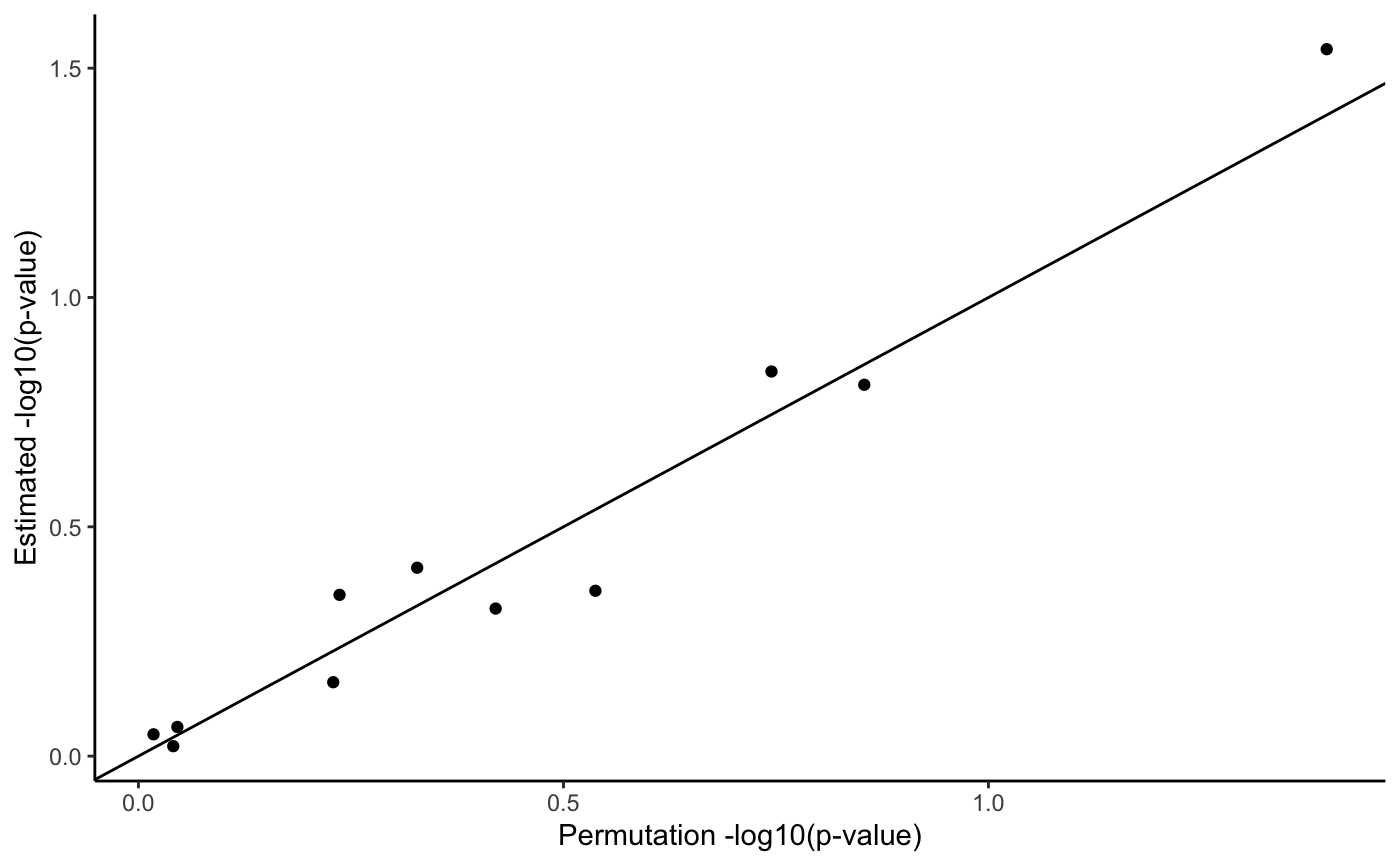
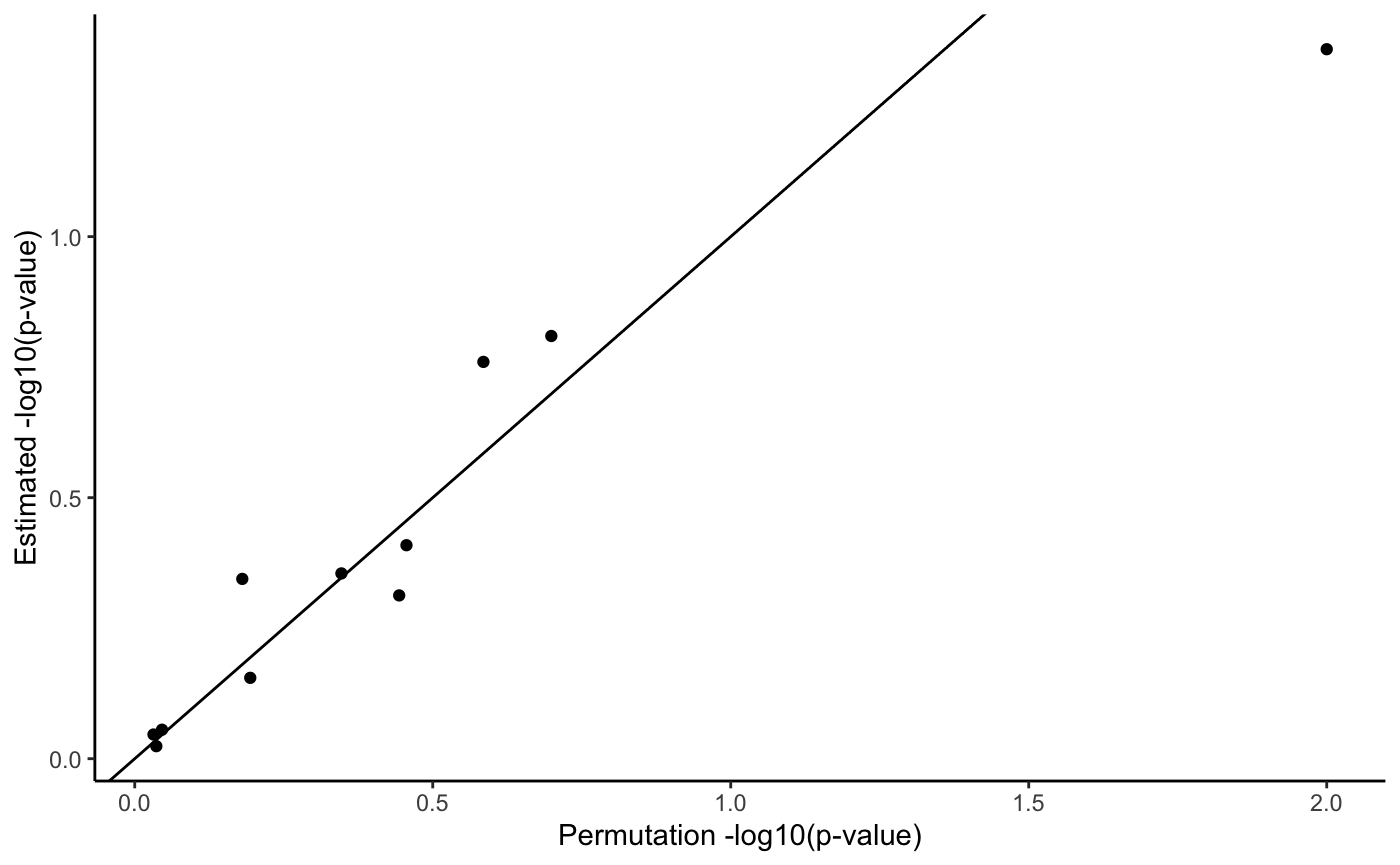
fix estimate pvalue plot functions

diff --git a/docs/articles/scHOT.html b/docs/articles/scHOT.html
@@ -65,7 +65,7 @@
     <div class="page-header toc-ignore">
       <h1>Getting started: scHOT</h1>
             
-            <h4 class="date">2020-03-05</h4>
+            <h4 class="date">2020-03-07</h4>
       
       
       <div class="hidden name"><code>scHOT.Rmd</code></div>
@@ -177,24 +177,24 @@
 <a class="sourceLine" id="cb5-47" data-line-number="47"><span class="co">#&gt; Tacc3      0.9305978594095</span></a>
 <a class="sourceLine" id="cb5-48" data-line-number="48"><span class="co">#&gt;                                                      permutations</span></a>
 <a class="sourceLine" id="cb5-49" data-line-number="49"><span class="co">#&gt;                                                     &lt;NumericList&gt;</span></a>
-<a class="sourceLine" id="cb5-50" data-line-number="50"><span class="co">#&gt; Birc5   0.580178954609393,0.637034836406202,0.496608600783187,...</span></a>
-<a class="sourceLine" id="cb5-51" data-line-number="51"><span class="co">#&gt; H2afz 0.0640423780706457,0.101438086186295,0.0548196894836163,...</span></a>
-<a class="sourceLine" id="cb5-52" data-line-number="52"><span class="co">#&gt; Tacc3    0.349331179758634,0.41079068193974,0.711636267042789,...</span></a>
+<a class="sourceLine" id="cb5-50" data-line-number="50"><span class="co">#&gt; Birc5   0.348544299199332,0.542450285589528,0.179141278219702,...</span></a>
+<a class="sourceLine" id="cb5-51" data-line-number="51"><span class="co">#&gt; H2afz 0.0524439308052498,0.064648581600795,0.0715850699920272,...</span></a>
+<a class="sourceLine" id="cb5-52" data-line-number="52"><span class="co">#&gt; Tacc3    0.528115026609221,0.153904469415437,0.43599292865703,...</span></a>
 <a class="sourceLine" id="cb5-53" data-line-number="53"><span class="co">#&gt;         pvalPermutations    FDRPermutations numberPermutationsEstimated</span></a>
 <a class="sourceLine" id="cb5-54" data-line-number="54"><span class="co">#&gt;                &lt;numeric&gt;          &lt;numeric&gt;                   &lt;integer&gt;</span></a>
-<a class="sourceLine" id="cb5-55" data-line-number="55"><span class="co">#&gt; Birc5 0.0099009900990099 0.0148514851485149                         100</span></a>
-<a class="sourceLine" id="cb5-56" data-line-number="56"><span class="co">#&gt; H2afz 0.0099009900990099 0.0148514851485149                         100</span></a>
-<a class="sourceLine" id="cb5-57" data-line-number="57"><span class="co">#&gt; Tacc3               0.02               0.02                         100</span></a>
+<a class="sourceLine" id="cb5-55" data-line-number="55"><span class="co">#&gt; Birc5 0.0099009900990099 0.0099009900990099                         100</span></a>
+<a class="sourceLine" id="cb5-56" data-line-number="56"><span class="co">#&gt; H2afz 0.0099009900990099 0.0099009900990099                         100</span></a>
+<a class="sourceLine" id="cb5-57" data-line-number="57"><span class="co">#&gt; Tacc3 0.0099009900990099 0.0099009900990099                         100</span></a>
 <a class="sourceLine" id="cb5-58" data-line-number="58"><span class="co">#&gt;       globalLowerRangeEstimated globalUpperRangeEstimated      pvalEstimated</span></a>
 <a class="sourceLine" id="cb5-59" data-line-number="59"><span class="co">#&gt;                       &lt;numeric&gt;                 &lt;numeric&gt;          &lt;numeric&gt;</span></a>
 <a class="sourceLine" id="cb5-60" data-line-number="60"><span class="co">#&gt; Birc5           1.9916742413209           1.9916742413209 0.0099009900990099</span></a>
 <a class="sourceLine" id="cb5-61" data-line-number="61"><span class="co">#&gt; H2afz         0.238446227321547         0.238446227321547 0.0099009900990099</span></a>
-<a class="sourceLine" id="cb5-62" data-line-number="62"><span class="co">#&gt; Tacc3          2.34659756452498          2.34659756452498               0.02</span></a>
+<a class="sourceLine" id="cb5-62" data-line-number="62"><span class="co">#&gt; Tacc3          2.34659756452498          2.34659756452498 0.0099009900990099</span></a>
 <a class="sourceLine" id="cb5-63" data-line-number="63"><span class="co">#&gt;             FDREstimated</span></a>
 <a class="sourceLine" id="cb5-64" data-line-number="64"><span class="co">#&gt;                &lt;numeric&gt;</span></a>
-<a class="sourceLine" id="cb5-65" data-line-number="65"><span class="co">#&gt; Birc5 0.0148514851485149</span></a>
-<a class="sourceLine" id="cb5-66" data-line-number="66"><span class="co">#&gt; H2afz 0.0148514851485149</span></a>
-<a class="sourceLine" id="cb5-67" data-line-number="67"><span class="co">#&gt; Tacc3               0.02</span></a>
+<a class="sourceLine" id="cb5-65" data-line-number="65"><span class="co">#&gt; Birc5 0.0099009900990099</span></a>
+<a class="sourceLine" id="cb5-66" data-line-number="66"><span class="co">#&gt; H2afz 0.0099009900990099</span></a>
+<a class="sourceLine" id="cb5-67" data-line-number="67"><span class="co">#&gt; Tacc3 0.0099009900990099</span></a>
 <a class="sourceLine" id="cb5-68" data-line-number="68"></a>
 <a class="sourceLine" id="cb5-69" data-line-number="69"><span class="kw">slot</span>(scHOT_traj_wrap, <span class="st">"scHOT_output"</span>)<span class="op">$</span>higherOrderSequence</a>
 <a class="sourceLine" id="cb5-70" data-line-number="70"><span class="co">#&gt; NumericList of length 3</span></a>
@@ -271,7 +271,7 @@
 <a class="sourceLine" id="cb6-64" data-line-number="64"><span class="co">#&gt; Permutation testing combination 2 of 3...</span></a>
 <a class="sourceLine" id="cb6-65" data-line-number="65"><span class="co">#&gt; Permutation testing combination 3 of 3...</span></a>
 <a class="sourceLine" id="cb6-66" data-line-number="66"><span class="co">#&gt;    user  system elapsed </span></a>
-<a class="sourceLine" id="cb6-67" data-line-number="67"><span class="co">#&gt;   0.147   0.116  13.515</span></a>
+<a class="sourceLine" id="cb6-67" data-line-number="67"><span class="co">#&gt;   0.159   0.163  14.611</span></a>
 <a class="sourceLine" id="cb6-68" data-line-number="68"></a>
 <a class="sourceLine" id="cb6-69" data-line-number="69"></a>
 <a class="sourceLine" id="cb6-70" data-line-number="70">scHOT_traj &lt;-<span class="st"> </span><span class="kw"><a href="../reference/scHOT_estimatePvalues.html">scHOT_estimatePvalues</a></span>(scHOT_traj)</a>
@@ -292,26 +292,26 @@
 <a class="sourceLine" id="cb6-85" data-line-number="85"><span class="co">#&gt; 1      1.6348540306463</span></a>
 <a class="sourceLine" id="cb6-86" data-line-number="86"><span class="co">#&gt; 2    0.216770984534113</span></a>
 <a class="sourceLine" id="cb6-87" data-line-number="87"><span class="co">#&gt; 3      0.9305978594095</span></a>
-<a class="sourceLine" id="cb6-88" data-line-number="88"><span class="co">#&gt;                                                   permutations</span></a>
-<a class="sourceLine" id="cb6-89" data-line-number="89"><span class="co">#&gt;                                                  &lt;NumericList&gt;</span></a>
-<a class="sourceLine" id="cb6-90" data-line-number="90"><span class="co">#&gt; 1    0.270497052202105,0.287427604952854,0.307092444806665,...</span></a>
-<a class="sourceLine" id="cb6-91" data-line-number="91"><span class="co">#&gt; 2 0.0579936097007446,0.0448178996915663,0.0556276843151251,...</span></a>
-<a class="sourceLine" id="cb6-92" data-line-number="92"><span class="co">#&gt; 3    0.403651477683464,0.273170999764188,0.205386551187109,...</span></a>
+<a class="sourceLine" id="cb6-88" data-line-number="88"><span class="co">#&gt;                                                  permutations</span></a>
+<a class="sourceLine" id="cb6-89" data-line-number="89"><span class="co">#&gt;                                                 &lt;NumericList&gt;</span></a>
+<a class="sourceLine" id="cb6-90" data-line-number="90"><span class="co">#&gt; 1   0.343697552370972,0.392619618322594,0.876651478921939,...</span></a>
+<a class="sourceLine" id="cb6-91" data-line-number="91"><span class="co">#&gt; 2 0.0661601835854264,0.031404729555457,0.0261188329409862,...</span></a>
+<a class="sourceLine" id="cb6-92" data-line-number="92"><span class="co">#&gt; 3   0.687675721354538,0.692935330213712,0.426841975478014,...</span></a>
 <a class="sourceLine" id="cb6-93" data-line-number="93"><span class="co">#&gt;     pvalPermutations    FDRPermutations numberPermutationsEstimated</span></a>
 <a class="sourceLine" id="cb6-94" data-line-number="94"><span class="co">#&gt;            &lt;numeric&gt;          &lt;numeric&gt;                   &lt;integer&gt;</span></a>
-<a class="sourceLine" id="cb6-95" data-line-number="95"><span class="co">#&gt; 1 0.0099009900990099 0.0099009900990099                         100</span></a>
-<a class="sourceLine" id="cb6-96" data-line-number="96"><span class="co">#&gt; 2 0.0099009900990099 0.0099009900990099                         100</span></a>
-<a class="sourceLine" id="cb6-97" data-line-number="97"><span class="co">#&gt; 3 0.0099009900990099 0.0099009900990099                         100</span></a>
+<a class="sourceLine" id="cb6-95" data-line-number="95"><span class="co">#&gt; 1 0.0099009900990099 0.0148514851485149                         100</span></a>
+<a class="sourceLine" id="cb6-96" data-line-number="96"><span class="co">#&gt; 2 0.0099009900990099 0.0148514851485149                         100</span></a>
+<a class="sourceLine" id="cb6-97" data-line-number="97"><span class="co">#&gt; 3               0.02               0.02                         100</span></a>
 <a class="sourceLine" id="cb6-98" data-line-number="98"><span class="co">#&gt;   globalLowerRangeEstimated globalUpperRangeEstimated      pvalEstimated</span></a>
 <a class="sourceLine" id="cb6-99" data-line-number="99"><span class="co">#&gt;                   &lt;numeric&gt;                 &lt;numeric&gt;          &lt;numeric&gt;</span></a>
 <a class="sourceLine" id="cb6-100" data-line-number="100"><span class="co">#&gt; 1           1.9916742413209           1.9916742413209 0.0099009900990099</span></a>
 <a class="sourceLine" id="cb6-101" data-line-number="101"><span class="co">#&gt; 2         0.238446227321547         0.238446227321547 0.0099009900990099</span></a>
-<a class="sourceLine" id="cb6-102" data-line-number="102"><span class="co">#&gt; 3          2.34659756452498          2.34659756452498 0.0099009900990099</span></a>
+<a class="sourceLine" id="cb6-102" data-line-number="102"><span class="co">#&gt; 3          2.34659756452498          2.34659756452498               0.02</span></a>
 <a class="sourceLine" id="cb6-103" data-line-number="103"><span class="co">#&gt;         FDREstimated</span></a>
 <a class="sourceLine" id="cb6-104" data-line-number="104"><span class="co">#&gt;            &lt;numeric&gt;</span></a>
-<a class="sourceLine" id="cb6-105" data-line-number="105"><span class="co">#&gt; 1 0.0099009900990099</span></a>
-<a class="sourceLine" id="cb6-106" data-line-number="106"><span class="co">#&gt; 2 0.0099009900990099</span></a>
-<a class="sourceLine" id="cb6-107" data-line-number="107"><span class="co">#&gt; 3 0.0099009900990099</span></a>
+<a class="sourceLine" id="cb6-105" data-line-number="105"><span class="co">#&gt; 1 0.0148514851485149</span></a>
+<a class="sourceLine" id="cb6-106" data-line-number="106"><span class="co">#&gt; 2 0.0148514851485149</span></a>
+<a class="sourceLine" id="cb6-107" data-line-number="107"><span class="co">#&gt; 3               0.02</span></a>
 <a class="sourceLine" id="cb6-108" data-line-number="108"></a>
 <a class="sourceLine" id="cb6-109" data-line-number="109"><span class="kw">slot</span>(scHOT_traj, <span class="st">"scHOT_output"</span>)<span class="op">$</span>higherOrderSequence</a>
 <a class="sourceLine" id="cb6-110" data-line-number="110"><span class="co">#&gt; NumericList of length 3</span></a>
@@ -524,7 +524,7 @@
 <a class="sourceLine" id="cb8-162" data-line-number="162"><span class="co">#&gt; Permutation testing combination 10 of 11...</span></a>
 <a class="sourceLine" id="cb8-163" data-line-number="163"><span class="co">#&gt; Permutation testing combination 11 of 11...</span></a>
 <a class="sourceLine" id="cb8-164" data-line-number="164"><span class="co">#&gt;    user  system elapsed </span></a>
-<a class="sourceLine" id="cb8-165" data-line-number="165"><span class="co">#&gt;   0.622   0.781 103.301</span></a>
+<a class="sourceLine" id="cb8-165" data-line-number="165"><span class="co">#&gt;   0.726   0.954 128.761</span></a>
 <a class="sourceLine" id="cb8-166" data-line-number="166"></a>
 <a class="sourceLine" id="cb8-167" data-line-number="167"></a>
 <a class="sourceLine" id="cb8-168" data-line-number="168">scHOT_spatial &lt;-<span class="st"> </span><span class="kw"><a href="../reference/scHOT_estimatePvalues.html">scHOT_estimatePvalues</a></span>(scHOT_spatial)</a>
@@ -584,30 +584,30 @@
 <a class="sourceLine" id="cb8-222" data-line-number="222"><span class="co">#&gt; Arrb1_Mtor       0.323072078286733</span></a>
 <a class="sourceLine" id="cb8-223" data-line-number="223"><span class="co">#&gt;                                                            permutations</span></a>
 <a class="sourceLine" id="cb8-224" data-line-number="224"><span class="co">#&gt;                                                           &lt;NumericList&gt;</span></a>
-<a class="sourceLine" id="cb8-225" data-line-number="225"><span class="co">#&gt; Dnm1l_Gucy1b3 0.271771624619152,0.284538455655978,0.334101033023923,...</span></a>
-<a class="sourceLine" id="cb8-226" data-line-number="226"><span class="co">#&gt; Bai1_Vdac3    0.330718109648594,0.288620453721182,0.291908042149754,...</span></a>
-<a class="sourceLine" id="cb8-227" data-line-number="227"><span class="co">#&gt; Igf2_Tuba1a     0.27781733827489,0.338430029963111,0.34855107463088,...</span></a>
-<a class="sourceLine" id="cb8-228" data-line-number="228"><span class="co">#&gt; Gm15421_Myo10  0.32245610644992,0.344830702796697,0.325705003490554,...</span></a>
-<a class="sourceLine" id="cb8-229" data-line-number="229"><span class="co">#&gt; Mtor_Tuba1a    0.29031961628556,0.309973501738734,0.292553748851042,...</span></a>
-<a class="sourceLine" id="cb8-230" data-line-number="230"><span class="co">#&gt; Cldn11_Luzp2  0.292505579032475,0.296568106182193,0.315204241910937,...</span></a>
-<a class="sourceLine" id="cb8-231" data-line-number="231"><span class="co">#&gt; Calm1_Wdfy3    0.314728474497004,0.314007173875438,0.32174098746332,...</span></a>
-<a class="sourceLine" id="cb8-232" data-line-number="232"><span class="co">#&gt; Atrnl1_Calm1  0.308855927960195,0.345302545626893,0.296559072263856,...</span></a>
-<a class="sourceLine" id="cb8-233" data-line-number="233"><span class="co">#&gt; Atrnl1_Dnm3   0.327557104305264,0.290291156944053,0.325224841816364,...</span></a>
-<a class="sourceLine" id="cb8-234" data-line-number="234"><span class="co">#&gt; Mlc1_Uchl1    0.318518890479952,0.295207315752893,0.287808511665742,...</span></a>
-<a class="sourceLine" id="cb8-235" data-line-number="235"><span class="co">#&gt; Arrb1_Mtor     0.344975349901948,0.311832238358347,0.32393853293379,...</span></a>
+<a class="sourceLine" id="cb8-225" data-line-number="225"><span class="co">#&gt; Dnm1l_Gucy1b3 0.324265324410343,0.290837847605136,0.376041427924762,...</span></a>
+<a class="sourceLine" id="cb8-226" data-line-number="226"><span class="co">#&gt; Bai1_Vdac3    0.263718237077515,0.312486982454657,0.324662771310652,...</span></a>
+<a class="sourceLine" id="cb8-227" data-line-number="227"><span class="co">#&gt; Igf2_Tuba1a    0.315750263743469,0.278479639238365,0.31238797968954,...</span></a>
+<a class="sourceLine" id="cb8-228" data-line-number="228"><span class="co">#&gt; Gm15421_Myo10  0.312659634084877,0.299678821075891,0.30954269969171,...</span></a>
+<a class="sourceLine" id="cb8-229" data-line-number="229"><span class="co">#&gt; Mtor_Tuba1a   0.284811763504127,0.330134848181149,0.302676918403911,...</span></a>
+<a class="sourceLine" id="cb8-230" data-line-number="230"><span class="co">#&gt; Cldn11_Luzp2  0.287055869620163,0.379879115694542,0.301062652753303,...</span></a>
+<a class="sourceLine" id="cb8-231" data-line-number="231"><span class="co">#&gt; Calm1_Wdfy3   0.268824488489448,0.302918007733601,0.280443015170628,...</span></a>
+<a class="sourceLine" id="cb8-232" data-line-number="232"><span class="co">#&gt; Atrnl1_Calm1  0.310640986241986,0.303781607234001,0.298139076501966,...</span></a>
+<a class="sourceLine" id="cb8-233" data-line-number="233"><span class="co">#&gt; Atrnl1_Dnm3     0.313728204861707,0.28551146657168,0.34699025071239,...</span></a>
+<a class="sourceLine" id="cb8-234" data-line-number="234"><span class="co">#&gt; Mlc1_Uchl1    0.307521432453503,0.294533126230709,0.328989488114207,...</span></a>
+<a class="sourceLine" id="cb8-235" data-line-number="235"><span class="co">#&gt; Arrb1_Mtor      0.32781583366819,0.31773090324303,0.321603140744708,...</span></a>
 <a class="sourceLine" id="cb8-236" data-line-number="236"><span class="co">#&gt;               pvalPermutations FDRPermutations numberPermutationsEstimated</span></a>
 <a class="sourceLine" id="cb8-237" data-line-number="237"><span class="co">#&gt;                      &lt;numeric&gt;       &lt;numeric&gt;                   &lt;integer&gt;</span></a>
-<a class="sourceLine" id="cb8-238" data-line-number="238"><span class="co">#&gt; Dnm1l_Gucy1b3             0.91            0.96                         800</span></a>
-<a class="sourceLine" id="cb8-239" data-line-number="239"><span class="co">#&gt; Bai1_Vdac3                0.04            0.44                         800</span></a>
-<a class="sourceLine" id="cb8-240" data-line-number="240"><span class="co">#&gt; Igf2_Tuba1a               0.38         0.81125                         300</span></a>
-<a class="sourceLine" id="cb8-241" data-line-number="241"><span class="co">#&gt; Gm15421_Myo10             0.96            0.96                         800</span></a>
-<a class="sourceLine" id="cb8-242" data-line-number="242"><span class="co">#&gt; Mtor_Tuba1a               0.14            0.66                         800</span></a>
-<a class="sourceLine" id="cb8-243" data-line-number="243"><span class="co">#&gt; Cldn11_Luzp2              0.18            0.66                         200</span></a>
-<a class="sourceLine" id="cb8-244" data-line-number="244"><span class="co">#&gt; Calm1_Wdfy3                0.9            0.96                         800</span></a>
-<a class="sourceLine" id="cb8-245" data-line-number="245"><span class="co">#&gt; Atrnl1_Calm1              0.29          0.7975                         500</span></a>
-<a class="sourceLine" id="cb8-246" data-line-number="246"><span class="co">#&gt; Atrnl1_Dnm3               0.47         0.81125                         600</span></a>
-<a class="sourceLine" id="cb8-247" data-line-number="247"><span class="co">#&gt; Mlc1_Uchl1                0.59         0.81125                         900</span></a>
-<a class="sourceLine" id="cb8-248" data-line-number="248"><span class="co">#&gt; Arrb1_Mtor                0.58         0.81125                         800</span></a>
+<a class="sourceLine" id="cb8-238" data-line-number="238"><span class="co">#&gt; Dnm1l_Gucy1b3             0.92            0.93                         800</span></a>
+<a class="sourceLine" id="cb8-239" data-line-number="239"><span class="co">#&gt; Bai1_Vdac3                0.01            0.11                         800</span></a>
+<a class="sourceLine" id="cb8-240" data-line-number="240"><span class="co">#&gt; Igf2_Tuba1a               0.36           0.792                         300</span></a>
+<a class="sourceLine" id="cb8-241" data-line-number="241"><span class="co">#&gt; Gm15421_Myo10             0.93            0.93                         800</span></a>
+<a class="sourceLine" id="cb8-242" data-line-number="242"><span class="co">#&gt; Mtor_Tuba1a               0.26           0.792                         800</span></a>
+<a class="sourceLine" id="cb8-243" data-line-number="243"><span class="co">#&gt; Cldn11_Luzp2               0.2           0.792                         200</span></a>
+<a class="sourceLine" id="cb8-244" data-line-number="244"><span class="co">#&gt; Calm1_Wdfy3                0.9            0.93                         800</span></a>
+<a class="sourceLine" id="cb8-245" data-line-number="245"><span class="co">#&gt; Atrnl1_Calm1              0.35           0.792                         500</span></a>
+<a class="sourceLine" id="cb8-246" data-line-number="246"><span class="co">#&gt; Atrnl1_Dnm3               0.45           0.825                         600</span></a>
+<a class="sourceLine" id="cb8-247" data-line-number="247"><span class="co">#&gt; Mlc1_Uchl1                0.64          0.9075                         900</span></a>
+<a class="sourceLine" id="cb8-248" data-line-number="248"><span class="co">#&gt; Arrb1_Mtor                0.66          0.9075                         800</span></a>
 <a class="sourceLine" id="cb8-249" data-line-number="249"><span class="co">#&gt;               globalLowerRangeEstimated globalUpperRangeEstimated</span></a>
 <a class="sourceLine" id="cb8-250" data-line-number="250"><span class="co">#&gt;                               &lt;numeric&gt;                 &lt;numeric&gt;</span></a>
 <a class="sourceLine" id="cb8-251" data-line-number="251"><span class="co">#&gt; Dnm1l_Gucy1b3        0.0348910517728306         0.147862715396389</span></a>
@@ -623,17 +623,17 @@
 <a class="sourceLine" id="cb8-261" data-line-number="261"><span class="co">#&gt; Arrb1_Mtor           0.0348910517728306         0.147862715396389</span></a>
 <a class="sourceLine" id="cb8-262" data-line-number="262"><span class="co">#&gt;                   pvalEstimated      FDREstimated</span></a>
 <a class="sourceLine" id="cb8-263" data-line-number="263"><span class="co">#&gt;                       &lt;numeric&gt;         &lt;numeric&gt;</span></a>
-<a class="sourceLine" id="cb8-264" data-line-number="264"><span class="co">#&gt; Dnm1l_Gucy1b3           0.95125           0.95125</span></a>
-<a class="sourceLine" id="cb8-265" data-line-number="265"><span class="co">#&gt; Bai1_Vdac3              0.02875           0.31625</span></a>
-<a class="sourceLine" id="cb8-266" data-line-number="266"><span class="co">#&gt; Igf2_Tuba1a   0.476666666666667 0.749047619047619</span></a>
-<a class="sourceLine" id="cb8-267" data-line-number="267"><span class="co">#&gt; Gm15421_Myo10           0.89625           0.95125</span></a>
-<a class="sourceLine" id="cb8-268" data-line-number="268"><span class="co">#&gt; Mtor_Tuba1a               0.155 0.568333333333333</span></a>
-<a class="sourceLine" id="cb8-269" data-line-number="269"><span class="co">#&gt; Cldn11_Luzp2              0.145 0.568333333333333</span></a>
-<a class="sourceLine" id="cb8-270" data-line-number="270"><span class="co">#&gt; Calm1_Wdfy3             0.86375           0.95125</span></a>
-<a class="sourceLine" id="cb8-271" data-line-number="271"><span class="co">#&gt; Atrnl1_Calm1              0.436 0.749047619047619</span></a>
-<a class="sourceLine" id="cb8-272" data-line-number="272"><span class="co">#&gt; Atrnl1_Dnm3   0.388333333333333 0.749047619047619</span></a>
-<a class="sourceLine" id="cb8-273" data-line-number="273"><span class="co">#&gt; Mlc1_Uchl1                 0.69           0.94875</span></a>
-<a class="sourceLine" id="cb8-274" data-line-number="274"><span class="co">#&gt; Arrb1_Mtor                0.445 0.749047619047619</span></a>
+<a class="sourceLine" id="cb8-264" data-line-number="264"><span class="co">#&gt; Dnm1l_Gucy1b3           0.94625           0.94625</span></a>
+<a class="sourceLine" id="cb8-265" data-line-number="265"><span class="co">#&gt; Bai1_Vdac3              0.04375           0.48125</span></a>
+<a class="sourceLine" id="cb8-266" data-line-number="266"><span class="co">#&gt; Igf2_Tuba1a   0.486666666666667 0.764761904761905</span></a>
+<a class="sourceLine" id="cb8-267" data-line-number="267"><span class="co">#&gt; Gm15421_Myo10           0.89875           0.94625</span></a>
+<a class="sourceLine" id="cb8-268" data-line-number="268"><span class="co">#&gt; Mtor_Tuba1a             0.17375 0.637083333333333</span></a>
+<a class="sourceLine" id="cb8-269" data-line-number="269"><span class="co">#&gt; Cldn11_Luzp2              0.155 0.637083333333333</span></a>
+<a class="sourceLine" id="cb8-270" data-line-number="270"><span class="co">#&gt; Calm1_Wdfy3                0.88           0.94625</span></a>
+<a class="sourceLine" id="cb8-271" data-line-number="271"><span class="co">#&gt; Atrnl1_Calm1               0.39 0.764761904761905</span></a>
+<a class="sourceLine" id="cb8-272" data-line-number="272"><span class="co">#&gt; Atrnl1_Dnm3   0.441666666666667 0.764761904761905</span></a>
+<a class="sourceLine" id="cb8-273" data-line-number="273"><span class="co">#&gt; Mlc1_Uchl1                  0.7           0.94625</span></a>
+<a class="sourceLine" id="cb8-274" data-line-number="274"><span class="co">#&gt; Arrb1_Mtor               0.4525 0.764761904761905</span></a>
 <a class="sourceLine" id="cb8-275" data-line-number="275"></a>
 <a class="sourceLine" id="cb8-276" data-line-number="276"><span class="kw"><a href="https://ggplot2.tidyverse.org/reference/ggplot.html">ggplot</a></span>(<span class="kw"><a href="https://rdrr.io/r/base/as.data.frame.html">as.data.frame</a></span>(<span class="kw">slot</span>(scHOT_spatial, <span class="st">"scHOT_output"</span>)),</a>
 <a class="sourceLine" id="cb8-277" data-line-number="277">       <span class="kw"><a href="https://ggplot2.tidyverse.org/reference/aes.html">aes</a></span>(<span class="dt">x =</span> <span class="op">-</span><span class="kw"><a href="https://rdrr.io/r/base/Log.html">log10</a></span>(pvalPermutations), <span class="dt">y =</span> <span class="op">-</span><span class="kw"><a href="https://rdrr.io/r/base/Log.html">log10</a></span>(pvalEstimated))) <span class="op">+</span><span class="st"> </span></a>
@@ -780,30 +780,30 @@
 <a class="sourceLine" id="cb12-96" data-line-number="96"><span class="co">#&gt; Arrb1_Mtor       0.323072078286733</span></a>
 <a class="sourceLine" id="cb12-97" data-line-number="97"><span class="co">#&gt;                                                            permutations</span></a>
 <a class="sourceLine" id="cb12-98" data-line-number="98"><span class="co">#&gt;                                                           &lt;NumericList&gt;</span></a>
-<a class="sourceLine" id="cb12-99" data-line-number="99"><span class="co">#&gt; Dnm1l_Gucy1b3 0.335172405559732,0.313352190771686,0.297935513676411,...</span></a>
-<a class="sourceLine" id="cb12-100" data-line-number="100"><span class="co">#&gt; Bai1_Vdac3     0.30317327596639,0.362746487380235,0.322742419124655,...</span></a>
-<a class="sourceLine" id="cb12-101" data-line-number="101"><span class="co">#&gt; Igf2_Tuba1a   0.339001669010977,0.271077485433086,0.302661483719123,...</span></a>
-<a class="sourceLine" id="cb12-102" data-line-number="102"><span class="co">#&gt; Gm15421_Myo10 0.344821077270025,0.331119386209038,0.349530764311098,...</span></a>
-<a class="sourceLine" id="cb12-103" data-line-number="103"><span class="co">#&gt; Mtor_Tuba1a   0.363840311274538,0.277690491678801,0.316199296375477,...</span></a>
-<a class="sourceLine" id="cb12-104" data-line-number="104"><span class="co">#&gt; Cldn11_Luzp2  0.336611557883175,0.338698227172049,0.322440108936185,...</span></a>
-<a class="sourceLine" id="cb12-105" data-line-number="105"><span class="co">#&gt; Calm1_Wdfy3    0.348915746044035,0.344033609301269,0.34879470657377,...</span></a>
-<a class="sourceLine" id="cb12-106" data-line-number="106"><span class="co">#&gt; Atrnl1_Calm1  0.393483948478277,0.324482920967924,0.337070691651256,...</span></a>
-<a class="sourceLine" id="cb12-107" data-line-number="107"><span class="co">#&gt; Atrnl1_Dnm3    0.290919049508433,0.306798214854318,0.31058095235514,...</span></a>
-<a class="sourceLine" id="cb12-108" data-line-number="108"><span class="co">#&gt; Mlc1_Uchl1    0.335887367101587,0.306183758117452,0.324786450328411,...</span></a>
-<a class="sourceLine" id="cb12-109" data-line-number="109"><span class="co">#&gt; Arrb1_Mtor    0.305865942578259,0.294269920803235,0.347458733309852,...</span></a>
-<a class="sourceLine" id="cb12-110" data-line-number="110"><span class="co">#&gt;               pvalPermutations FDRPermutations numberPermutationsEstimated</span></a>
-<a class="sourceLine" id="cb12-111" data-line-number="111"><span class="co">#&gt;                      &lt;numeric&gt;       &lt;numeric&gt;                   &lt;integer&gt;</span></a>
-<a class="sourceLine" id="cb12-112" data-line-number="112"><span class="co">#&gt; Dnm1l_Gucy1b3             0.93            0.94                         800</span></a>
-<a class="sourceLine" id="cb12-113" data-line-number="113"><span class="co">#&gt; Bai1_Vdac3                0.03            0.33                         800</span></a>
-<a class="sourceLine" id="cb12-114" data-line-number="114"><span class="co">#&gt; Igf2_Tuba1a               0.44            0.77                         300</span></a>
-<a class="sourceLine" id="cb12-115" data-line-number="115"><span class="co">#&gt; Gm15421_Myo10             0.91            0.94                         800</span></a>
-<a class="sourceLine" id="cb12-116" data-line-number="116"><span class="co">#&gt; Mtor_Tuba1a               0.18            0.77                         800</span></a>
-<a class="sourceLine" id="cb12-117" data-line-number="117"><span class="co">#&gt; Cldn11_Luzp2               0.3            0.77                         200</span></a>
-<a class="sourceLine" id="cb12-118" data-line-number="118"><span class="co">#&gt; Calm1_Wdfy3               0.94            0.94                         800</span></a>
-<a class="sourceLine" id="cb12-119" data-line-number="119"><span class="co">#&gt; Atrnl1_Calm1              0.44            0.77                         500</span></a>
-<a class="sourceLine" id="cb12-120" data-line-number="120"><span class="co">#&gt; Atrnl1_Dnm3               0.34            0.77                         600</span></a>
-<a class="sourceLine" id="cb12-121" data-line-number="121"><span class="co">#&gt; Mlc1_Uchl1                0.71            0.94                         900</span></a>
-<a class="sourceLine" id="cb12-122" data-line-number="122"><span class="co">#&gt; Arrb1_Mtor                0.49            0.77                         800</span></a>
+<a class="sourceLine" id="cb12-99" data-line-number="99"><span class="co">#&gt; Dnm1l_Gucy1b3 0.319035382923548,0.359879167945165,0.329194918148808,...</span></a>
+<a class="sourceLine" id="cb12-100" data-line-number="100"><span class="co">#&gt; Bai1_Vdac3    0.263664120555617,0.325363004199709,0.317661220043807,...</span></a>
+<a class="sourceLine" id="cb12-101" data-line-number="101"><span class="co">#&gt; Igf2_Tuba1a   0.303815849558339,0.270869348758155,0.242023646272572,...</span></a>
+<a class="sourceLine" id="cb12-102" data-line-number="102"><span class="co">#&gt; Gm15421_Myo10 0.322413305669061,0.306637571545124,0.302905124713141,...</span></a>
+<a class="sourceLine" id="cb12-103" data-line-number="103"><span class="co">#&gt; Mtor_Tuba1a     0.322656998475013,0.319335502918545,0.3273748390953,...</span></a>
+<a class="sourceLine" id="cb12-104" data-line-number="104"><span class="co">#&gt; Cldn11_Luzp2  0.330437156253523,0.341138912447068,0.343354507054171,...</span></a>
+<a class="sourceLine" id="cb12-105" data-line-number="105"><span class="co">#&gt; Calm1_Wdfy3   0.345039306759751,0.355526758395443,0.320168374389558,...</span></a>
+<a class="sourceLine" id="cb12-106" data-line-number="106"><span class="co">#&gt; Atrnl1_Calm1  0.321800816760544,0.325709285741779,0.288697424611993,...</span></a>
+<a class="sourceLine" id="cb12-107" data-line-number="107"><span class="co">#&gt; Atrnl1_Dnm3   0.336545838828978,0.287820671242388,0.284514261175985,...</span></a>
+<a class="sourceLine" id="cb12-108" data-line-number="108"><span class="co">#&gt; Mlc1_Uchl1     0.31521881948469,0.282250592785881,0.369956855960027,...</span></a>
+<a class="sourceLine" id="cb12-109" data-line-number="109"><span class="co">#&gt; Arrb1_Mtor     0.342979718237522,0.331987121353397,0.36419716205812,...</span></a>
+<a class="sourceLine" id="cb12-110" data-line-number="110"><span class="co">#&gt;               pvalPermutations   FDRPermutations numberPermutationsEstimated</span></a>
+<a class="sourceLine" id="cb12-111" data-line-number="111"><span class="co">#&gt;                      &lt;numeric&gt;         &lt;numeric&gt;                   &lt;integer&gt;</span></a>
+<a class="sourceLine" id="cb12-112" data-line-number="112"><span class="co">#&gt; Dnm1l_Gucy1b3             0.94              0.94                         800</span></a>
+<a class="sourceLine" id="cb12-113" data-line-number="113"><span class="co">#&gt; Bai1_Vdac3                0.01              0.11                         800</span></a>
+<a class="sourceLine" id="cb12-114" data-line-number="114"><span class="co">#&gt; Igf2_Tuba1a               0.38 0.788333333333333                         300</span></a>
+<a class="sourceLine" id="cb12-115" data-line-number="115"><span class="co">#&gt; Gm15421_Myo10             0.83              0.94                         800</span></a>
+<a class="sourceLine" id="cb12-116" data-line-number="116"><span class="co">#&gt; Mtor_Tuba1a               0.17 0.623333333333333                         800</span></a>
+<a class="sourceLine" id="cb12-117" data-line-number="117"><span class="co">#&gt; Cldn11_Luzp2              0.15 0.623333333333333                         200</span></a>
+<a class="sourceLine" id="cb12-118" data-line-number="118"><span class="co">#&gt; Calm1_Wdfy3                0.9              0.94                         800</span></a>
+<a class="sourceLine" id="cb12-119" data-line-number="119"><span class="co">#&gt; Atrnl1_Calm1              0.42 0.788333333333333                         500</span></a>
+<a class="sourceLine" id="cb12-120" data-line-number="120"><span class="co">#&gt; Atrnl1_Dnm3               0.43 0.788333333333333                         600</span></a>
+<a class="sourceLine" id="cb12-121" data-line-number="121"><span class="co">#&gt; Mlc1_Uchl1                0.64              0.88                         900</span></a>
+<a class="sourceLine" id="cb12-122" data-line-number="122"><span class="co">#&gt; Arrb1_Mtor                0.61              0.88                         800</span></a>
 <a class="sourceLine" id="cb12-123" data-line-number="123"><span class="co">#&gt;               globalLowerRangeEstimated globalUpperRangeEstimated</span></a>
 <a class="sourceLine" id="cb12-124" data-line-number="124"><span class="co">#&gt;                               &lt;numeric&gt;                 &lt;numeric&gt;</span></a>
 <a class="sourceLine" id="cb12-125" data-line-number="125"><span class="co">#&gt; Dnm1l_Gucy1b3        0.0348910517728306         0.147862715396389</span></a>
@@ -819,17 +819,17 @@
 <a class="sourceLine" id="cb12-135" data-line-number="135"><span class="co">#&gt; Arrb1_Mtor           0.0348910517728306         0.147862715396389</span></a>
 <a class="sourceLine" id="cb12-136" data-line-number="136"><span class="co">#&gt;                   pvalEstimated      FDREstimated</span></a>
 <a class="sourceLine" id="cb12-137" data-line-number="137"><span class="co">#&gt;                       &lt;numeric&gt;         &lt;numeric&gt;</span></a>
-<a class="sourceLine" id="cb12-138" data-line-number="138"><span class="co">#&gt; Dnm1l_Gucy1b3           0.95875           0.95875</span></a>
-<a class="sourceLine" id="cb12-139" data-line-number="139"><span class="co">#&gt; Bai1_Vdac3              0.03375           0.37125</span></a>
-<a class="sourceLine" id="cb12-140" data-line-number="140"><span class="co">#&gt; Igf2_Tuba1a   0.513333333333333 0.806666666666667</span></a>
-<a class="sourceLine" id="cb12-141" data-line-number="141"><span class="co">#&gt; Gm15421_Myo10           0.91875           0.95875</span></a>
-<a class="sourceLine" id="cb12-142" data-line-number="142"><span class="co">#&gt; Mtor_Tuba1a             0.17625             0.803</span></a>
-<a class="sourceLine" id="cb12-143" data-line-number="143"><span class="co">#&gt; Cldn11_Luzp2               0.26             0.803</span></a>
-<a class="sourceLine" id="cb12-144" data-line-number="144"><span class="co">#&gt; Calm1_Wdfy3             0.89625           0.95875</span></a>
-<a class="sourceLine" id="cb12-145" data-line-number="145"><span class="co">#&gt; Atrnl1_Calm1              0.438             0.803</span></a>
-<a class="sourceLine" id="cb12-146" data-line-number="146"><span class="co">#&gt; Atrnl1_Dnm3                 0.4             0.803</span></a>
-<a class="sourceLine" id="cb12-147" data-line-number="147"><span class="co">#&gt; Mlc1_Uchl1    0.703333333333333           0.95875</span></a>
-<a class="sourceLine" id="cb12-148" data-line-number="148"><span class="co">#&gt; Arrb1_Mtor                0.425             0.803</span></a>
+<a class="sourceLine" id="cb12-138" data-line-number="138"><span class="co">#&gt; Dnm1l_Gucy1b3            0.9525            0.9525</span></a>
+<a class="sourceLine" id="cb12-139" data-line-number="139"><span class="co">#&gt; Bai1_Vdac3              0.03125           0.34375</span></a>
+<a class="sourceLine" id="cb12-140" data-line-number="140"><span class="co">#&gt; Igf2_Tuba1a   0.496666666666667  0.78047619047619</span></a>
+<a class="sourceLine" id="cb12-141" data-line-number="141"><span class="co">#&gt; Gm15421_Myo10           0.89375            0.9525</span></a>
+<a class="sourceLine" id="cb12-142" data-line-number="142"><span class="co">#&gt; Mtor_Tuba1a               0.175 0.641666666666667</span></a>
+<a class="sourceLine" id="cb12-143" data-line-number="143"><span class="co">#&gt; Cldn11_Luzp2               0.17 0.641666666666667</span></a>
+<a class="sourceLine" id="cb12-144" data-line-number="144"><span class="co">#&gt; Calm1_Wdfy3              0.8675            0.9525</span></a>
+<a class="sourceLine" id="cb12-145" data-line-number="145"><span class="co">#&gt; Atrnl1_Calm1              0.448  0.78047619047619</span></a>
+<a class="sourceLine" id="cb12-146" data-line-number="146"><span class="co">#&gt; Atrnl1_Dnm3   0.408333333333333  0.78047619047619</span></a>
+<a class="sourceLine" id="cb12-147" data-line-number="147"><span class="co">#&gt; Mlc1_Uchl1    0.684444444444444 0.941111111111111</span></a>
+<a class="sourceLine" id="cb12-148" data-line-number="148"><span class="co">#&gt; Arrb1_Mtor                 0.45  0.78047619047619</span></a>
 <a class="sourceLine" id="cb12-149" data-line-number="149"></a>
 <a class="sourceLine" id="cb12-150" data-line-number="150"><span class="kw"><a href="../reference/plotOrderedExpression.html">plotOrderedExpression</a></span>(scHOT_spatial, <span class="kw"><a href="https://rdrr.io/r/base/c.html">c</a></span>(<span class="st">"Arrb1"</span>, <span class="st">"Mtor"</span>),</a>
 <a class="sourceLine" id="cb12-151" data-line-number="151">                      <span class="dt">positionColData =</span> <span class="kw"><a href="https://rdrr.io/r/base/c.html">c</a></span>(<span class="st">"-x"</span>, <span class="st">"y"</span>),</a>
